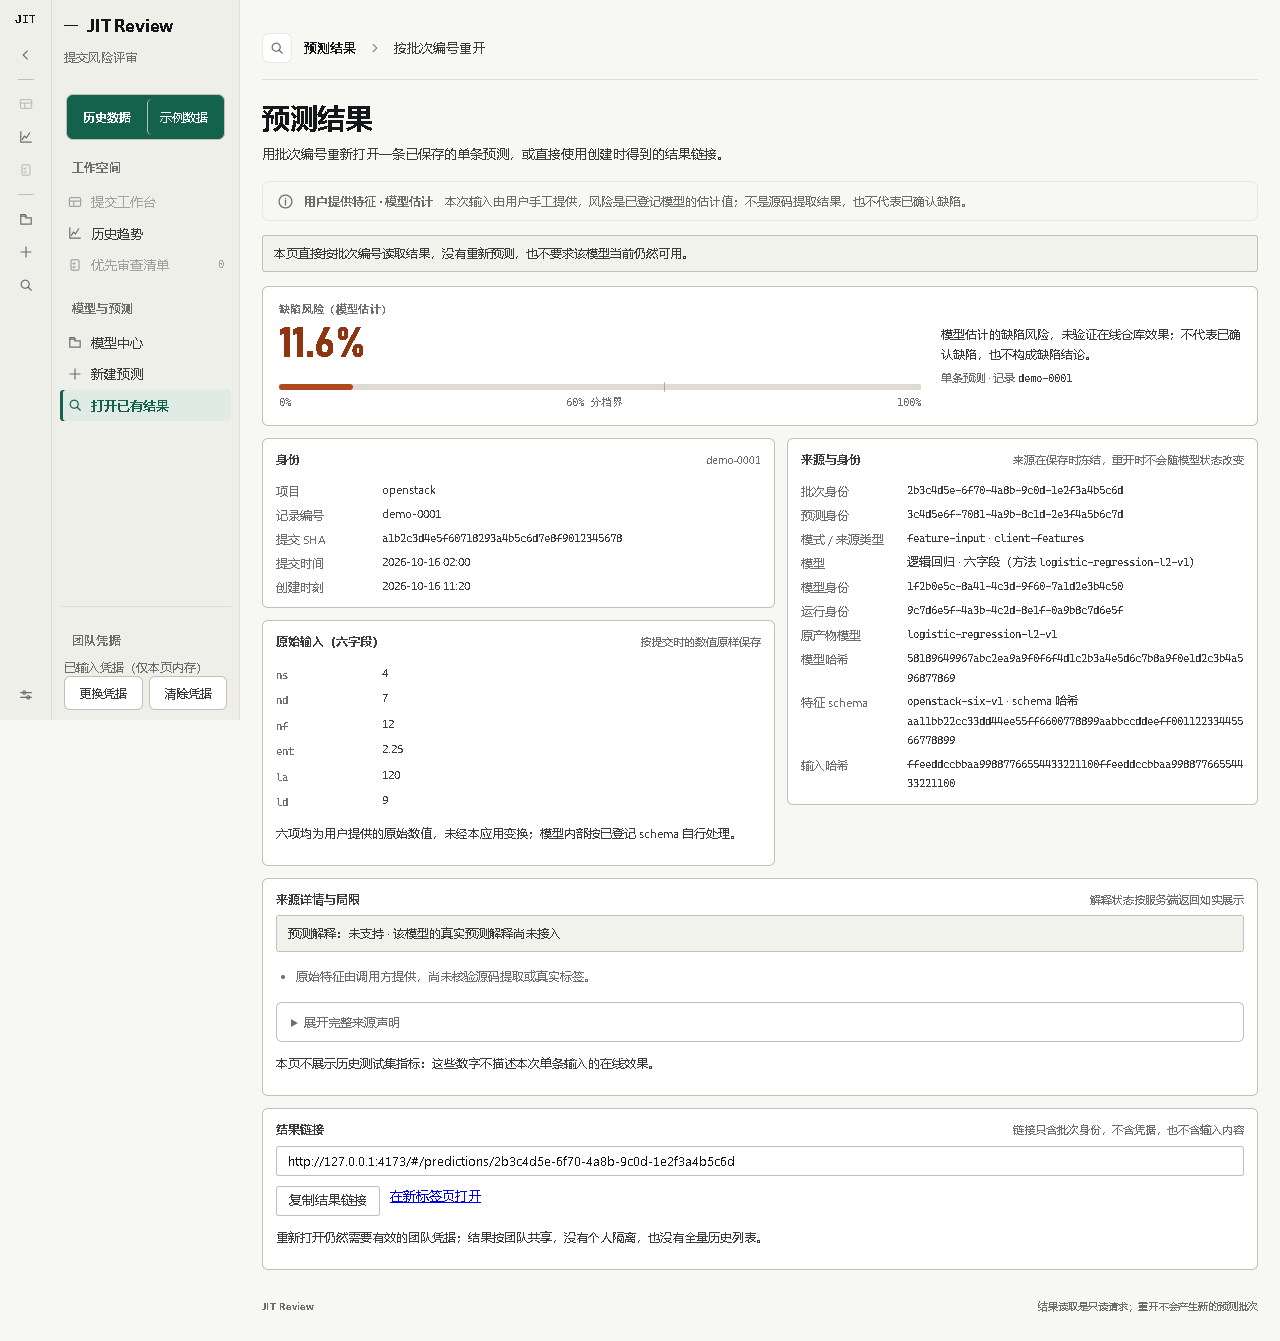
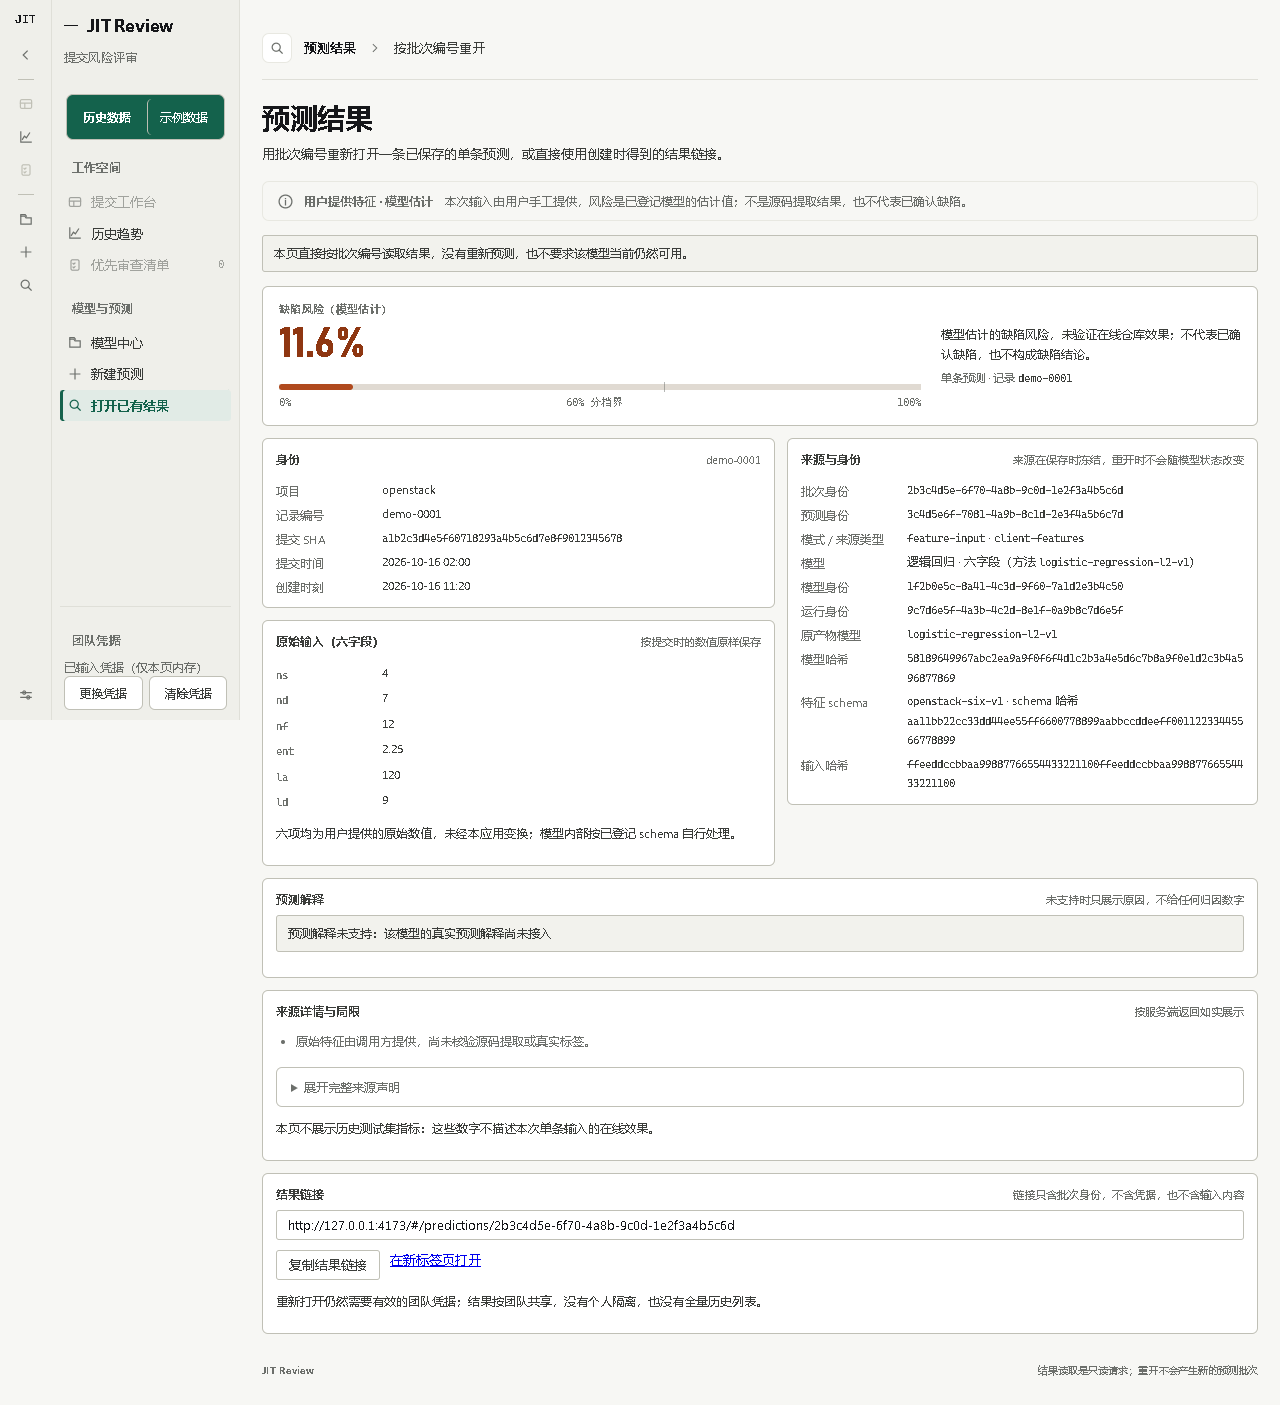
test: 验收对齐合入后的预测解释；证据随合并后回归重新冻结
- MPW-05 的两条断言写的是旧行为（结果页显示「预测解释：未支持」）。#17 之后服务端按
  遮挡法实时算归因，实测 explanationStatus=supported、method=occlusion-mean-v1、5 个归因项，
  断言改为：解释分区出现方法名、摘要说明「归因来自模型」、并明确不是缺陷结论。
- verification.md 增「合入 origin/main（dc98cd8）后的复核」：typecheck 0 / lint 1 warning
  0 errors / vitest 301 / build CSS 65.73 kB JS 346.55 kB / e2e 76 / acceptance 18，并记录
  App.css 冲突处理与旧 baseline「预测解释未提供」只是产物里的历史文字。
- 证据按 run 目录重新冻结（41 文件，check-evidence passed）。

diff --git a/docs/evidence/restyle-frontend-visual-language/verification.md b/docs/evidence/restyle-frontend-visual-language/verification.md
@@ -17,6 +17,62 @@
 
 `browser-results.json` / `browser-results-acceptance.json` / `unit-results.json` 是这三批运行的原始报告。
 
+## 合入 origin/main（dc98cd8）后的复核
+
+本分支（`restyle-frontend-visual-language`）随后与远端 `origin/main` 合入的 8 个提交
+（PR #14 提交分页与持久化、#15 从 Git 仓库采集、#16 数据集描述文件、#17 预测解释与验收链）合并，
+合并后按同一套命令重跑：
+
+| 命令 | 合并后结果 |
+|---|---|
+| `npm run typecheck` | 通过（`tsc -b` 无输出） |
+| `npm run lint` | Found 1 warning and 0 errors（81 files / 116 rules，warning 仍是既有的 `Icon.tsx`） |
+| `npm test` | **301 passed**（27 个文件）——比合并前多 3 条，来自上游新增的归因/数据集用例 |
+| `npm run build` | 通过（CSS 65.73 kB、JS 346.55 kB） |
+| `npm run test:e2e` | **76 passed**（2.5m，默认 30s） |
+| `npm run test:e2e:acceptance` | **18 passed**（1.2m） |
+
+合并带来的两处必要改动：
+
+1. `frontend/src/App.css` 是唯一冲突文件：上游新增的 `.explanation-*` 规则用硬编码色（`#4a5d7a` 等），
+   在这套令牌体系下会让炭黑主题失去对比度，因此把这几条改写成 `--fg-2`/`--fg-3`/`--line-soft`/`--risk-strong`/`--accent`。
+2. 验收 MPW-05 里两条断言写的是旧行为（结果页显示「预测解释：未支持」「该模型的真实预测解释尚未接入」）。
+   #17 之后服务端按遮挡法实时算归因，这一轮实测返回
+   `explanationStatus=supported`、`method=occlusion-mean-v1`、5 个归因项，因此断言改为：解释分区必须出现
+   `occlusion-mean-v1`、摘要必须说明「归因来自模型」、并明确「不是缺陷结论或代码定位」。归因失败的分支
+   （只有原因、不给数字）仍由单元测试覆盖。
+
+需要注意的行为变化：旧 baseline 的 `summary.limitations` 里仍留着一句「预测解释未提供」，那是产物里冻结的
+历史文字，页面不再用它当解释结论；实际解释由服务端实时计算，并附加「部分入模特征缺少训练数据均值，
+本次归因对缺失字段按零基线计算」这一条限制。
+
+### 后端与项目验证链（同一轮）
+
+| 命令 | 结果 |
+|---|---|
+| `pytest --basetemp=.cache/final-verification`（backend） | **274 passed / 2 failed / 1 skipped**（127s） |
+| `python -m jit_baseline.cli verify` | **passed: true**（真实产物重算与复现口径一致） |
+| `python -m jit_baseline.cli compare artifacts/baseline artifacts/reproduction` | **passed: true**（tolerance, atol 1e-8） |
+| `openspec validate --specs --strict --no-interactive` | **13 passed, 0 failed** |
+
+两条失败与一条跳过都是本机环境限制，不是代码问题：`tests/test_verification_guard.py` 两条需要 PowerShell 7
+（本机只有 Windows PowerShell 5.1，`shutil.which('pwsh')` 为 `None`，`verify.ps1` 也因此在最后一步起不来）；
+`tests/test_openapi.py` 因未装 PyYAML 跳过。
+
+`--basetemp` 必须落在仓库内（如 `.cache/final-verification`，与 `frontend/scripts/verify.ps1:63`、
+`backend/README.md:236/246/292` 一致）：`evidence.freeze` 会用 `Path.relative_to(PROJECT)` 记录工作区的
+相对路径，临时目录在系统 TMP 下时 9 条证据用例会以 `ValueError: … is not in the subpath of …` 失败。
+
+链中唯一没重跑的是 `npm ci`：合并没有改动 `frontend/package.json` 与 `package-lock.json`
+（`git diff 4f5fc66..HEAD -- frontend/package*.json` 为空），现有 `node_modules` 就是同一份依赖解析结果。
+
+合并后出现过的两条环境性失败及处置：① `test_real_dataset_commits_page_stays_bounded` 因本机目录库从未
+导入提交记录而返回 503，按 `backend/README.md:85-91` 跑 `register-dataset` 与
+`import-dataset --manifest data/datasets/openstack-six-v1/openstack-six-v1-2011-11-29_2014-02-28.json`
+（导入 **12374** 条提交）后通过；② `test_prediction_latency_p95_stays_under_budget` 在同时跑 dev server 与
+Playwright 时实测 P95 **262.6 ms** 超 250 ms 预算，机器空闲后复测通过——是并发噪声，不是归因计算
+（单条 6 次遮挡推理）引入的回归。
+
 ## 可见行数实测（工作台，提示条与基线记录都在页面上）
 
 | 视口 | 历史回放 | 演示模式 | 单视口 |
